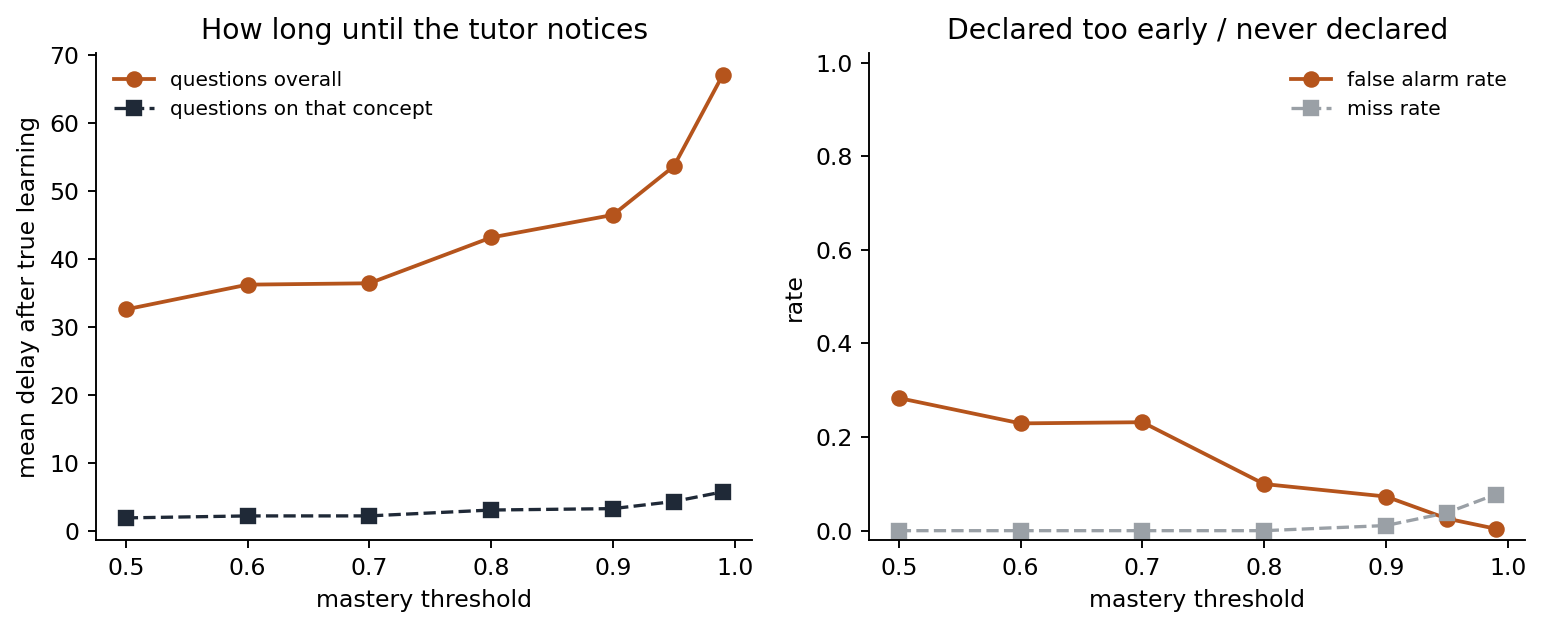
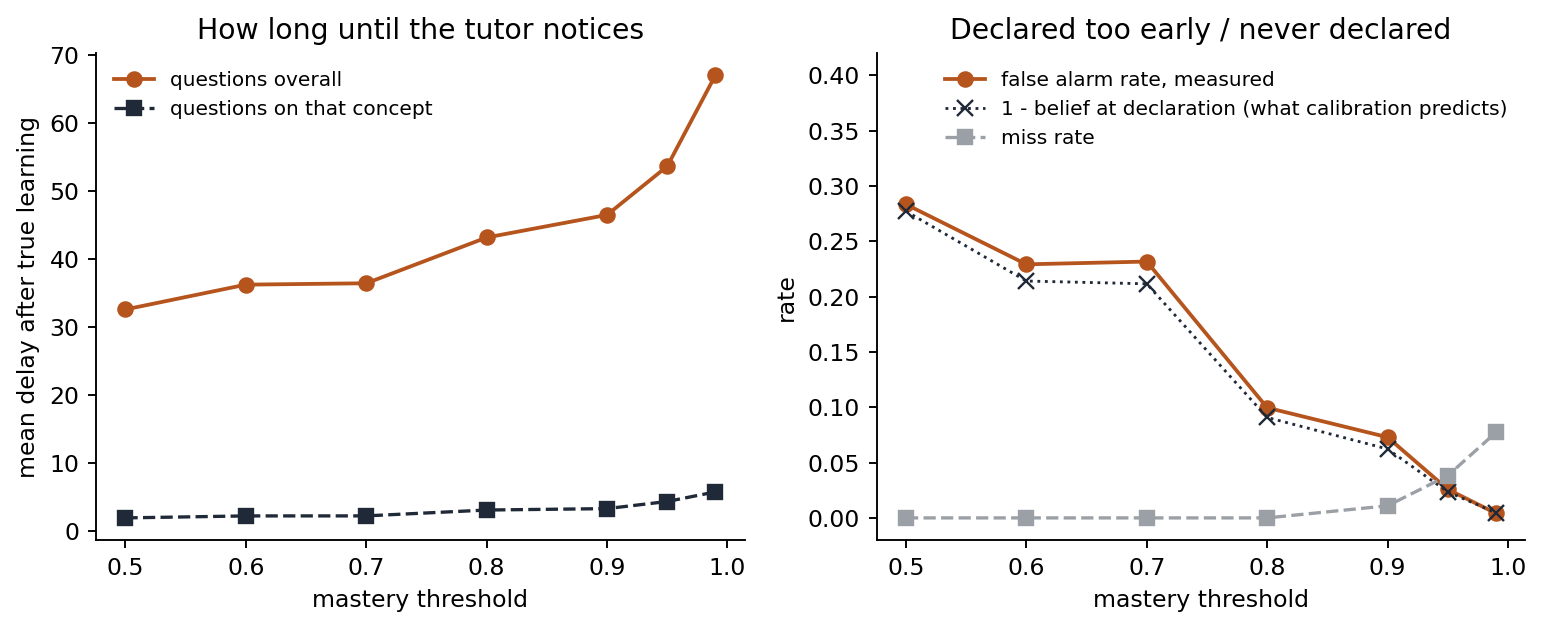
Detection: report the false-alarm rate calibration predicts, next to the measured one
1 minus the mean belief at the moment of declaration. If check 1 holds
this must equal the measured false-alarm rate, and it does at every
threshold (27.7/28.3, 9.1/10.0, 6.2/7.3, 2.4/2.6, 0.5/0.4). Plotted
alongside on check2_detection.png. Meeting notes added.

diff --git a/cursim/sanity.py b/cursim/sanity.py
@@ -106,12 +106,14 @@ def _per_concept(run, threshold):
     tutor first declared it (belief after update >= threshold)."""
     trace, learned = run["trace"], run["learned_step"]
     first_declared: Dict[str, Optional[int]] = {c: None for c in learned}
+    belief_at: Dict[str, Optional[float]] = {c: None for c in learned}
     asked_at: Dict[str, List[int]] = {c: [] for c in learned}
     for t in trace:
         c = t["concept"]
         asked_at[c].append(t["step"])
         if first_declared[c] is None and t["belief_after"] >= threshold:
             first_declared[c] = t["step"]
+            belief_at[c] = t["belief_after"]
     out = []
     for c, t_star in learned.items():
         t_d = first_declared[c]
@@ -121,6 +123,7 @@ def _per_concept(run, threshold):
         on_concept = (sum(1 for s in asked_at[c] if t_star < s <= t_d)
                       if delay is not None else None)
         out.append(dict(concept=c, learned_step=t_star, declared_step=t_d,
+                        belief_at_declaration=belief_at[c],
                         premature=premature, delay_questions=delay,
                         delay_on_concept=on_concept,
                         missed=(t_star is not None and t_d is None)))
@@ -147,8 +150,13 @@ def detection(n_learners=30, n_steps=400,
         on_c = [x["delay_on_concept"] for x in recs
                 if x["delay_on_concept"] is not None]
         fa = sum(x["premature"] for x in declared)
+        b_cross = (st.mean(x["belief_at_declaration"] for x in declared)
+                   if declared else float("nan"))
         rows.append(dict(
             threshold=th,
+            belief_at_declaration=b_cross,
+            # if check 1 holds, this must match false_alarm_rate
+            predicted_false_alarm_rate=1.0 - b_cross,
             n_concepts=len(recs), n_learned=len(learned), n_declared=len(declared),
             false_alarms=fa,
             false_alarm_rate=fa / len(declared) if declared else float("nan"),
@@ -170,11 +178,13 @@ def detection(n_learners=30, n_steps=400,
     a1.set_title("How long until the tutor notices")
     a1.legend(frameon=False, fontsize=8.5)
     a2.plot(th, [r["false_alarm_rate"] for r in rows], "o-", color=ACCENT, lw=1.6,
-            label="false alarm rate")
+            label="false alarm rate, measured")
+    a2.plot(th, [r["predicted_false_alarm_rate"] for r in rows], "x:", color=INK,
+            lw=1.2, ms=7, label="1 - belief at declaration (what calibration predicts)")
     a2.plot(th, [r["miss_rate"] for r in rows], "s--", color=GREY, lw=1.4,
             label="miss rate")
     a2.set_xlabel("mastery threshold"); a2.set_ylabel("rate")
-    a2.set_ylim(-0.02, 1.02)
+    a2.set_ylim(-0.02, 0.42)
     a2.set_title("Declared too early / never declared")
     a2.legend(frameon=False, fontsize=8.5)
     fig.tight_layout()

diff --git a/make_sanity.py b/make_sanity.py
@@ -106,11 +106,16 @@ with open(f"{OUT}/summary.md", "w") as f:
                     f"{x['gap']:+.3f} | {x['n']} |\n")
     f.write(f"\n**Check 2.** {c2['summary']}\n\n")
     f.write("| threshold | delay (questions) | delay (on that concept) | "
-            "false alarm rate | miss rate | declared |\n|---:|---:|---:|---:|---:|---:|\n")
+            "false alarms, measured | predicted by calibration | miss rate | declared |\n"
+            "|---:|---:|---:|---:|---:|---:|---:|\n")
     for x in d:
         f.write(f"| {x['threshold']:.2f} | {x['delay_mean']:.1f} | "
                 f"{x['delay_on_concept_mean']:.1f} | {x['false_alarm_rate']:.1%} | "
+                f"{x['predicted_false_alarm_rate']:.1%} | "
                 f"{x['miss_rate']:.1%} | {x['n_declared']}/{x['n_concepts']} |\n")
+    f.write("\n'Predicted by calibration' is 1 minus the mean belief at the moment of "
+            "declaration. If check 1 holds, it must match the measured false-alarm "
+            "rate. It does, at every threshold.\n")
     f.write(f"\n**Trace.** {tr['summary']} See `trace_20.md` and `trace_20.png`.\n")
 
 print("wrote", sorted(os.listdir(OUT)))

diff --git a/MEETING_sep15.md b/MEETING_sep15.md
@@ -1,0 +1,193 @@
+# Points for Tuesday's meeting with Surya
+
+Branch: `plain-bkt` on `uhloofstardust/adaptive-ai-tutoring`. `main` is untouched.
+
+Everything below runs from three commands:
+
+```
+streamlit run app.py        # the viewer
+python3 make_sanity.py      # every plot and table below -> sanity_outputs/
+python3 test_sanity.py      # 16 checks; the original 55 still pass too
+```
+
+---
+
+## 1. What we built, in one paragraph
+
+A student who *is* a BKT process: each concept is a coin, known or not, with the four
+standard parameters. No forgetting, no difficulty, no prerequisite effect. The tutor is
+the BKT belief we already had, reading the **same four numbers from the same file**
+(`cursim/params.py`), so "same parameters" is enforced by the code rather than by
+memory. The scheduler is uniform random over the ZPD, no bandit. On top of that, both
+checks from the mail, the 20-step trace, and a viewer where you can watch a single run
+one question at a time.
+
+---
+
+## 2. Check 1: is the belief calibrated?  (yes)
+
+Every time the tutor updates a belief we record (belief, true state) for that concept,
+then bin by belief. Both values are read at the same instant: after the tutor's update
+and after the student's transition, i.e. the state going into the next question.
+
+100 learners × 400 questions = 40,000 pairs:
+
+| tutor believes | student truly knows | gap | n |
+|---:|---:|---:|---:|
+| 0.143 | 0.147 | +0.004 | 15,305 |
+| 0.214 | 0.212 | −0.002 | 3,762 |
+| 0.449 | 0.443 | −0.006 | 7,046 |
+| 0.549 | 0.522 | −0.027 | 1,704 |
+| 0.772 | 0.756 | −0.016 | 4,224 |
+| 0.841 | 0.836 | −0.005 | 1,107 |
+| 0.953 | 0.950 | −0.003 | 5,904 |
+
+Every bin with n ≥ 500 is within 0.03 of the diagonal. We also ran 400 × 400 = 160,000
+pairs to make sure the small negative gaps in the middle bins are noise: they shrink to
+under 0.02 and sit within 2–3 standard errors, which is what nine bins of sampling
+noise look like. **The tutor's belief is correct.**
+
+*Plot:* `sanity_outputs/check1_calibration.png`
+
+**Design choice to confirm with Surya:** we count a "moment" only when the concept was
+just asked. Beliefs on concepts not being asked do not change (no decay), so counting
+them at every step would just repeat the same pair many times. Either way gives the
+same calibration; this way the n per bin is honest.
+
+---
+
+## 3. Check 2: does mastery detection work?  (yes, with the expected trade-off)
+
+For each (learner, concept) we know the exact step the student learned it, and the
+first step the tutor's belief crossed the threshold.
+
+- **Delay** = declared step − learned step, when the declaration came after.
+- **False alarm** = declared before the student actually learned it (or never did).
+- **Miss** = student learned it, tutor never declared it within 400 questions.
+
+One population of 30 learners *per threshold*, because the threshold also defines the
+ZPD and therefore changes what gets asked.
+
+| threshold | delay (questions) | delay (on that concept) | false alarms, measured | predicted by calibration | misses |
+|---:|---:|---:|---:|---:|---:|
+| 0.50 | 32.6 | 1.9 | 28.3% | 27.7% | 0.0% |
+| 0.70 | 36.4 | 2.2 | 23.2% | 21.2% | 0.0% |
+| 0.80 | 43.2 | 3.0 | 10.0% | 9.1% | 0.0% |
+| 0.90 | 46.5 | 3.2 | 7.3% | 6.2% | 1.1% |
+| 0.95 | 53.6 | 4.3 | 2.6% | 2.4% | 3.8% |
+| 0.99 | 67.0 | 5.7 | 0.4% | 0.5% | 7.7% |
+
+Raising the threshold buys fewer false alarms at the price of longer delay and more
+misses. That is the shape it must have if the code is right.
+
+*Plot:* `sanity_outputs/check2_detection.png`
+
+**Two things worth saying out loud:**
+
+- The two delay columns differ by 10×. "Questions overall" counts every question the
+  tutor asked anyone; "on that concept" counts only questions on the concept in
+  question. With 40 concepts and a ZPD of 5–10, a given concept is asked roughly every
+  15 questions, so the tutor usually notices within **2–4 attempts on that concept**.
+- **The two checks agree with each other, and this is the strongest evidence we
+  have.** If the belief is calibrated, then the false-alarm rate at threshold θ must
+  equal 1 − (mean belief at the moment of declaration). That "predicted" column is
+  computed from check 1's logic alone; the "measured" column from check 2's. They
+  match at every threshold: 27.7 vs 28.3, 9.1 vs 10.0, 6.2 vs 7.3, 2.4 vs 2.6, 0.5 vs
+  0.4. Two independent measurements of the same code agreeing is worth more than
+  either alone.
+
+---
+
+## 4. The 20-step trace
+
+`sanity_outputs/trace_20.md` (table) and `trace_20.png` (rendered). Per row: the ZPD
+before the question, the concept asked, the answer, true state before → after, belief
+before → after, and whether mastery was declared.
+
+Three moments in it worth pointing at:
+
+- **Steps 9 and 11:** the student learns on a *wrong* answer. BKT transitions after
+  answering, so this is correct, not a bug, and it is exactly why the belief must be
+  compared to the *post-transition* state.
+- **Step 7:** "Colors" is already known (from p(L0)) but the tutor's belief is 0.15. The
+  tutor cannot know yet. Calibration is about being right on average, not every time.
+- **Step 15 → 16:** "Numbers 1-5" crosses 0.9 and is declared. On the next row it has
+  left the ZPD and "Numbers 6-10" and "Time words" have entered. The prerequisite
+  gating is visible working.
+
+---
+
+## 5. The viewer
+
+`streamlit run app.py`. Sidebar: student simulator, KT model, scheduler, threshold,
+questions, seed. Two tabs:
+
+- **Dry run.** Press Run, then drag the step slider. For that step you see the ZPD
+  (picked concept highlighted), the question, the answer, true state before → after,
+  belief before → after, and whether mastery was declared. Below: a bar chart of the
+  tutor's belief on every ZPD concept, and belief-vs-truth over time for the asked
+  concept. Then the trace table so far. Buttons save the run (config, trace CSV, plots)
+  or download the CSV.
+- **Experiments.** Pick check 1, check 2, or the trace; adjust parameters; run; save.
+
+**It is reusable without editing.** Every dropdown is populated from a registry in the
+package: `LEARNERS`, `MASTERY_MODELS`, `SCHEDULERS`, `EXPERIMENTS`. A new scheduler
+class added to `SCHEDULERS` appears in the menu. A new experiment function added to
+`EXPERIMENTS` gets its parameters turned into inputs automatically.
+
+---
+
+## 6. Decisions we made where the mail was open
+
+To confirm, not to relitigate:
+
+| Decision | What we chose | Why |
+|---|---|---|
+| Parameter values | `p(L0)=0.15, p(T)=0.12, p(G)=0.25, p(S)=0.10` | cursim's existing defaults; guess is 0.25 for a 4-option question |
+| "Declares mastery" | first crossing of the threshold | one number per concept; matches how the latch already works |
+| Check 1 "moments" | when the concept was just asked | see section 2 |
+| Delay units | both: overall questions and questions on that concept | they tell different stories |
+| Empty ZPD | fall back to uniform over all concepts | keeps a fixed question budget for averaging |
+| Concepts known at step 0 | learned step = 0 | any declaration then counts as a detection with delay from 0 |
+| Which branch | `plain-bkt` new; `main` untouched | mail says keep the current simulator |
+
+---
+
+## 7. What the next step will need
+
+"Give each concept its own p(T), depending on whether prerequisites are learned."
+
+The student side is already there behind one flag: `prereq_gated_pT=True` on
+`BKTLearner` uses `p(T)` when all prerequisites are truly known and `pT_low` (0.02)
+otherwise. It is off for everything above.
+
+The question it raises, for Surya: **what does the tutor use?** The student's p(T)
+depends on the *true* state of prerequisites, which the tutor cannot see. Options are
+(a) tutor keeps a constant p(T), so it becomes mildly misspecified; (b) tutor uses its
+own *belief* about the prerequisites to pick p(T). Option (b) is closer to "same
+parameters". We have not implemented either tutor side yet; it is a few lines once
+chosen.
+
+---
+
+## 8. What we did not do, and limits
+
+- Only one curriculum (the 40-concept language graph). The addition graph from the
+  CurriculumTutor paper is not built.
+- Check 2 runs 30 learners per threshold. Enough for the shape; error bars would need
+  more.
+- 400 questions per run. With p(T)=0.12 a handful of concepts are never learned in that
+  budget at high thresholds, which is where the miss rate comes from.
+- The trace uses seed 4242. Any seed works from the viewer.
+
+---
+
+## 9. Things we are unsure about and would like Surya to weigh in on
+
+1. Is "moments when the concept was just asked" the right population for check 1?
+2. False-alarm rate is *premature declarations ÷ all declarations*. Should it be
+   ÷ all concepts instead?
+3. Running one population per threshold (ZPD moves with θ) versus one fixed trajectory
+   scored at every θ. We did the former because it measures the real system; the
+   latter isolates the detector. Happy to add the latter.
+4. For the next step, tutor-side p(T): constant, or gated on the tutor's own belief?

diff --git a/sanity_outputs/summary.md b/sanity_outputs/summary.md
@@ -18,14 +18,16 @@ Shared BKT parameters: `{'p_L0': 0.15, 'p_T': 0.12, 'p_G': 0.25, 'p_S': 0.1}`
 
 **Check 2.** Threshold 0.5: mean delay 32.6 questions, false alarms 28.3%. Threshold 0.99: delay 67.0, false alarms 0.4%.
 
-| threshold | delay (questions) | delay (on that concept) | false alarm rate | miss rate | declared |
-|---:|---:|---:|---:|---:|---:|
-| 0.50 | 32.6 | 1.9 | 28.3% | 0.0% | 1200/1200 |
-| 0.60 | 36.2 | 2.2 | 22.9% | 0.0% | 1200/1200 |
-| 0.70 | 36.4 | 2.2 | 23.2% | 0.0% | 1200/1200 |
-| 0.80 | 43.2 | 3.0 | 10.0% | 0.0% | 1195/1200 |
-| 0.90 | 46.5 | 3.2 | 7.3% | 1.1% | 1152/1200 |
-| 0.95 | 53.6 | 4.3 | 2.6% | 3.8% | 1084/1200 |
-| 0.99 | 67.0 | 5.7 | 0.4% | 7.7% | 960/1200 |
+| threshold | delay (questions) | delay (on that concept) | false alarms, measured | predicted by calibration | miss rate | declared |
+|---:|---:|---:|---:|---:|---:|---:|
+| 0.50 | 32.6 | 1.9 | 28.3% | 27.7% | 0.0% | 1200/1200 |
+| 0.60 | 36.2 | 2.2 | 22.9% | 21.4% | 0.0% | 1200/1200 |
+| 0.70 | 36.4 | 2.2 | 23.2% | 21.2% | 0.0% | 1200/1200 |
+| 0.80 | 43.2 | 3.0 | 10.0% | 9.1% | 0.0% | 1195/1200 |
+| 0.90 | 46.5 | 3.2 | 7.3% | 6.2% | 1.1% | 1152/1200 |
+| 0.95 | 53.6 | 4.3 | 2.6% | 2.4% | 3.8% | 1084/1200 |
+| 0.99 | 67.0 | 5.7 | 0.4% | 0.5% | 7.7% | 960/1200 |
+
+'Predicted by calibration' is 1 minus the mean belief at the moment of declaration. If check 1 holds, it must match the measured false-alarm rate. It does, at every threshold.
 
 **Trace.** 20 questions, seed 4242, threshold 0.9. The student learned 2 concept(s) during these steps. See `trace_20.md` and `trace_20.png`.
